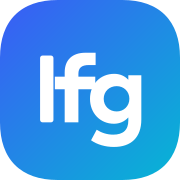
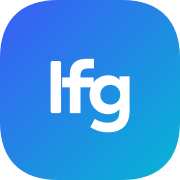
fix(web): match the vector wordmark to the pre-vector weight
Converting the mark to outlines in 4e467a5 restored sharpness but changed
the design: the vector glyph is 56.3% of the tile with a 7.4% stem, against
48.7% and 6.1% for the bitmap it replaced. Same wordmark, visibly bigger and
heavier than the logo in the wild — see docs/images/lfg-screenshot-1.jpg.

The two are different typefaces, so no single scale matches every metric
(the bitmap is wider per unit height and has a shorter descender). Scale by
the stem instead, since that is what reads as weight: at 0.78 the stem is
5.8% of the tile against the old 6.1%, and the ascender 28.9% against 27.3%.
Re-centre on (256.3, 271.8), where the old artwork sat.

Apply the same 0.78 to the maskable icon, which was drawn at .82, so the
adaptive icon and the app icon carry one weight.

Changed region(s): [[0.2222, 0.2778, 0.8056, 0.8333]]

diff --git a/web/src/lib/icon-assets.ts b/web/src/lib/icon-assets.ts
@@ -1,4 +1,4 @@
 // Bump this URL whenever the small mark changes. The query is intentionally
 // immutable on the server, so Safari, an installed PWA, and the service worker
 // all agree that different artwork has a different cache key.
-export const LFG_SMALL_ICON_PATH = "/icon-small.svg?v=20260731-vector";
+export const LFG_SMALL_ICON_PATH = "/icon-small.svg?v=20260731-vector-2";

diff --git a/CHANGELOG.md b/CHANGELOG.md
@@ -4,6 +4,13 @@ Recent product updates and deployment notes.
 
 ## [Unreleased]
 
+## July 31, 2026 - Logo weight matched to the original (v0.1.161)
+
+- The vector wordmark now sits at the same size and weight the mark had before
+  it was redrawn. Converting it to vector had also made it noticeably larger and
+  heavier than the logo people were used to; it reads as the familiar mark again,
+  just sharp.
+
 ## July 31, 2026 - A genuinely sharp logo, and updates that actually arrive (v0.1.160)
 
 - The LFG mark is now real vector artwork, so it is sharp at every size. It had
